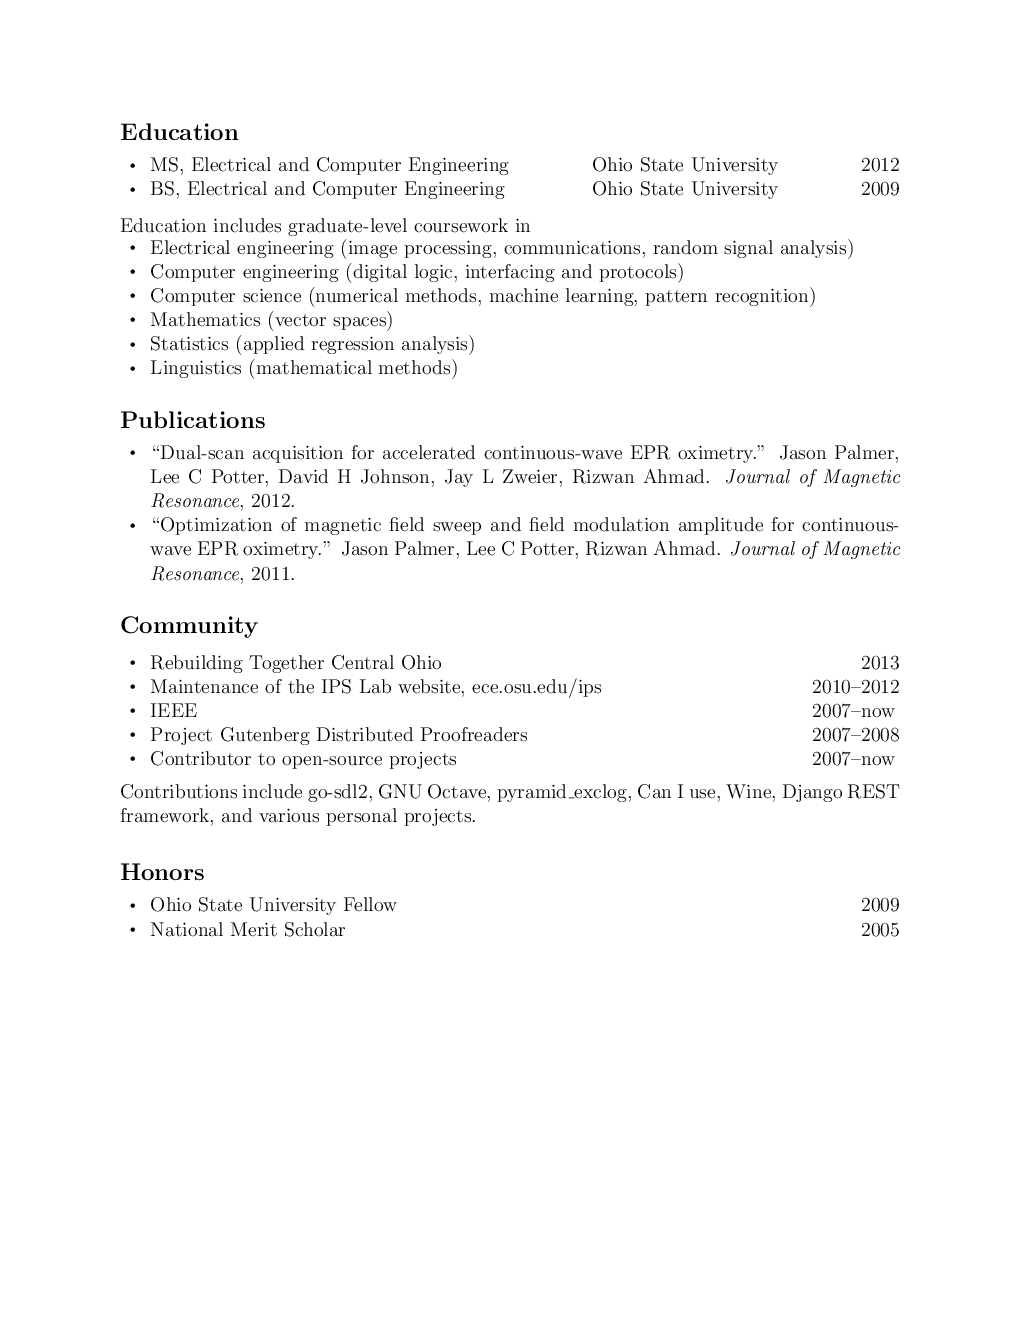
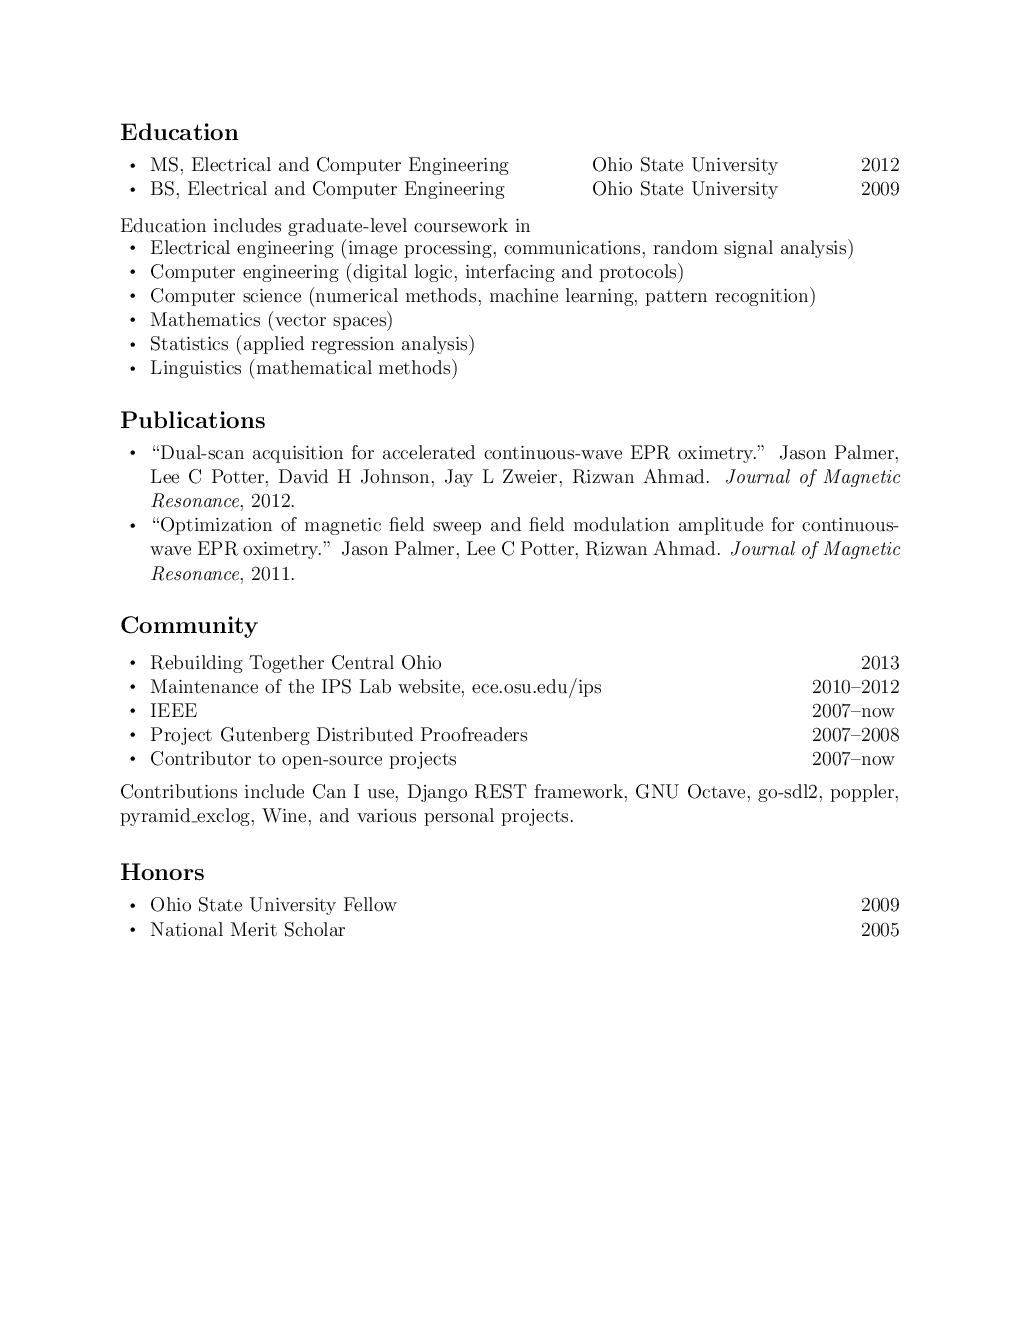
Add another patch

Changed region(s): [[0.1216, 0.5902, 0.8814, 0.6212]]

diff --git a/resume.tex b/resume.tex
@@ -142,7 +142,15 @@ Project Gutenberg Distributed Proofreaders                                      
 Contributor to open-source projects                                                & 2007--now  \\
 \end{tabularx}
 \newline \\
-Contributions include go-sdl2, GNU Octave, pyramid\_exclog, Can I use, Wine, Django REST framework, and various personal projects.
+Contributions include
+	Can I use,
+	Django REST framework,
+	GNU Octave,
+	go-sdl2,
+	poppler,
+	pyramid\_exclog,
+	Wine,
+and various personal projects.
 
 \subsection*{Honors}
 \begin{tabularx}{\textwidth}{ @{\bullet} X l @{} }
